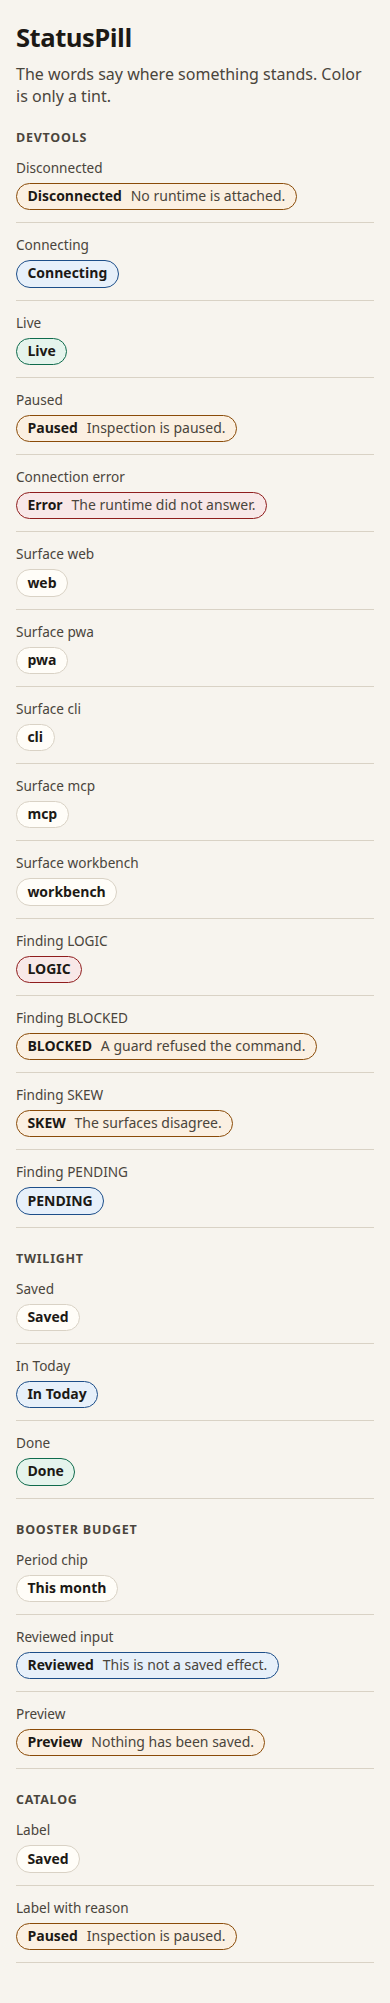
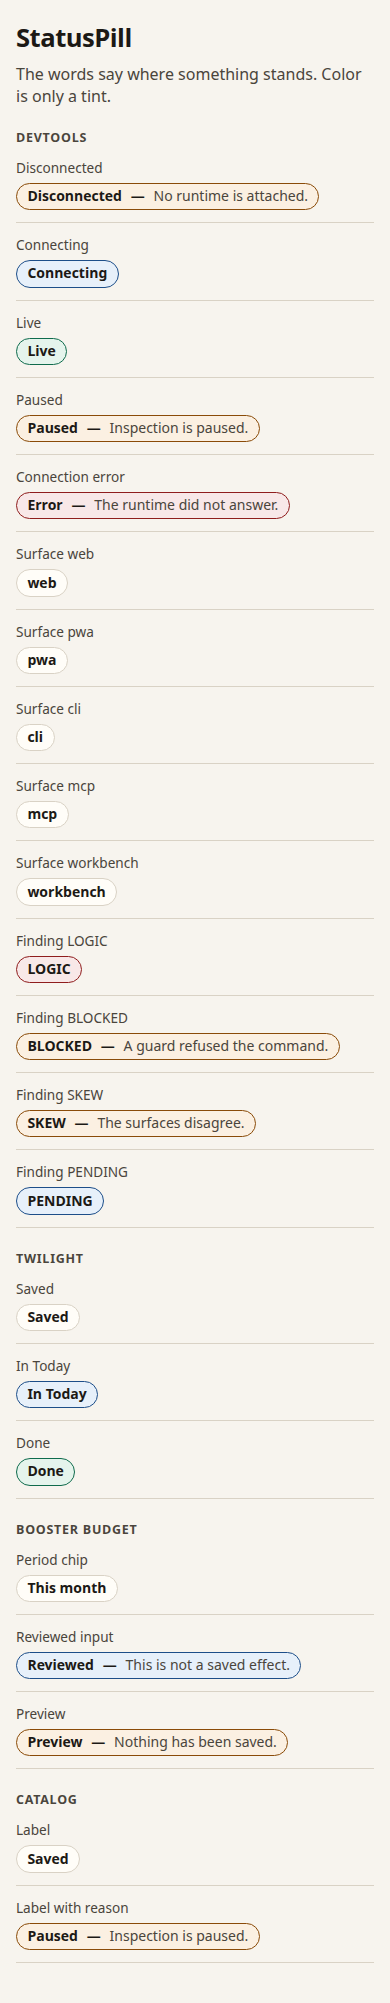
fix(components): keep StatusPill reasons readable
Whitespace-only reasons stay absent. The value and reason are separated
in the accessible text. The tone border reads --status-pill-tone, and the
exported commands projection takes igniteCore's { source } facade.

diff --git a/packages/ignite-components/src/status-pill/status-pill.view.tsx b/packages/ignite-components/src/status-pill/status-pill.view.tsx
@@ -15,16 +15,16 @@ const styles = `${catalogHostStyles()}
   max-width: 100%;
   box-sizing: border-box;
   padding: 0.2rem 0.65rem;
-  border: 1px solid var(--catalog-line);
+  border: 1px solid var(--status-pill-tone, var(--catalog-line));
   border-radius: 999px;
   background: var(--catalog-surface);
   color: var(--catalog-fg);
   font: 600 0.875rem/1.35 var(--catalog-font);
 }
-.status-pill[data-tone="info"] { border-color: #1d4e89; background: #e7f0fa; }
-.status-pill[data-tone="success"] { border-color: #0f6b4c; background: #e5f4ec; }
-.status-pill[data-tone="warning"] { border-color: #8a4b08; background: #fbf0e2; }
-.status-pill[data-tone="danger"] { border-color: #8f1d1d; background: #f8e8e8; }
+.status-pill[data-tone="info"] { border-color: var(--status-pill-tone, #1d4e89); background: #e7f0fa; }
+.status-pill[data-tone="success"] { border-color: var(--status-pill-tone, #0f6b4c); background: #e5f4ec; }
+.status-pill[data-tone="warning"] { border-color: var(--status-pill-tone, #8a4b08); background: #fbf0e2; }
+.status-pill[data-tone="danger"] { border-color: var(--status-pill-tone, #8f1d1d); background: #f8e8e8; }
 .status-pill-value { color: var(--catalog-fg); }
 .status-pill-reason {
   font-weight: 400;
@@ -43,7 +43,10 @@ export function statusPillView(ctx: StatusPillViewContext): IgniteJsxElement {
 			<span class="status-pill" data-tone={ctx.tone}>
 				<span class="status-pill-value">{ctx.value}</span>
 				{ctx.showReason ? (
-					<span class="status-pill-reason">{ctx.reason}</span>
+					<>
+						<span class="status-pill-sep"> — </span>
+						<span class="status-pill-reason">{ctx.reason}</span>
+					</>
 				) : null}
 			</span>
 		</>

diff --git a/packages/ignite-components/src/status-pill/status-pill.states.test.ts b/packages/ignite-components/src/status-pill/status-pill.states.test.ts
@@ -7,7 +7,7 @@ import {
 } from "../testing/contract-check";
 import { expectCloneable } from "../testing/host-seal";
 import { statusPillContract } from "./status-pill.contract";
-import { createStatusPillCore } from "./status-pill.core";
+import { createStatusPillCore, statusPillProjection } from "./status-pill.core";
 import {
 	type StatusPillFixtureInput,
 	statusPillGallery,
@@ -62,6 +62,37 @@ describe("StatusPill states", () => {
 				value: "Saved",
 				tone: "neutral",
 				showReason: false,
+			});
+		} finally {
+			core.dispose();
+		}
+	});
+
+	it("accepts the igniteCore commands facade", () => {
+		const sent: unknown[] = [];
+		statusPillProjection
+			.commands({
+				source: {
+					send: (event) => {
+						sent.push(event);
+					},
+				},
+			})
+			.setValue("Saved");
+		expect(sent).toEqual([{ type: "SET_VALUE", value: "Saved" }]);
+	});
+
+	it("treats a whitespace-only reason as no reason", async () => {
+		const core = createStatusPillCore();
+		try {
+			core.watch(() => {});
+			await core.execute({ command: "setValue", input: "Paused" });
+			await core.execute({ command: "setReason", input: " \n\t " });
+			expect(core.get("states")).toMatchObject({
+				state: "plain",
+				reason: null,
+				showReason: false,
+				showReasonRefusal: "No reason was given.",
 			});
 		} finally {
 			core.dispose();

diff --git a/packages/ignite-components/src/status-pill/status-pill.a11y.test.ts b/packages/ignite-components/src/status-pill/status-pill.a11y.test.ts
@@ -37,7 +37,12 @@ describe("StatusPill accessibility", () => {
 		expect(reason.closest("[aria-hidden='true']")).toBeNull();
 		const chip = value.closest(".status-pill");
 		expect(chip?.getAttribute("data-tone")).toBe("warning");
-		expect(chip?.textContent).toContain("Paused");
+		expect(chip?.textContent?.replace(/\s+/g, " ").trim()).toBe(
+			"Paused — Inspection is paused.",
+		);
+		expect(root.querySelector("style")?.textContent).toContain(
+			"var(--status-pill-tone",
+		);
 		expect(root.querySelector("[tabindex]")).toBeNull();
 		expect(root.querySelector("button")).toBeNull();
 	});

diff --git a/packages/ignite-components/src/status-pill/status-pill.source.ts b/packages/ignite-components/src/status-pill/status-pill.source.ts
@@ -34,8 +34,10 @@ export function isStatusPillTone(
 }
 
 export function normalizeReason(reason: string | null): string | null {
-	if (reason === null || reason.length === 0) return null;
-	return reason;
+	if (reason === null) return null;
+	const trimmed = reason.trim();
+	if (trimmed.length === 0) return null;
+	return trimmed;
 }
 
 function hasReason(context: StatusPillContext): boolean {

diff --git a/packages/ignite-components/src/status-pill/status-pill.core.ts b/packages/ignite-components/src/status-pill/status-pill.core.ts
@@ -66,7 +66,11 @@ export function statusPillCommands(source: {
 
 export const statusPillProjection = {
 	states: projectStatusPill,
-	commands: statusPillCommands,
+	commands: ({
+		source,
+	}: {
+		source: Parameters<typeof statusPillCommands>[0];
+	}) => statusPillCommands(source),
 };
 
 export function createStatusPillCore() {

diff --git a/packages/ignite-components/src/status-pill/status-pill.dom.test.ts b/packages/ignite-components/src/status-pill/status-pill.dom.test.ts
@@ -37,6 +37,7 @@ describe("StatusPill DOM", () => {
 			expect(view.getByText(fixture.input.value)).toBeTruthy();
 			if (fixture.input.reason) {
 				expect(view.getByText(fixture.input.reason)).toBeTruthy();
+				expect(view.getByText("—")).toBeTruthy();
 			}
 		}
 	});
